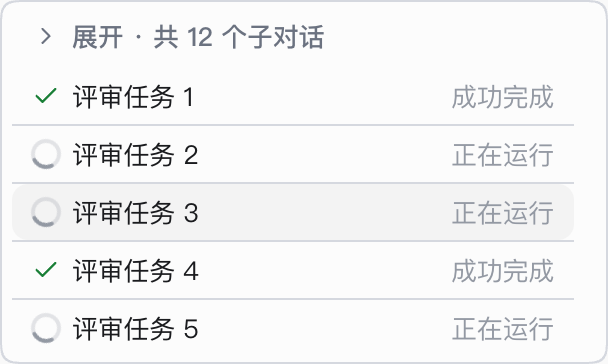
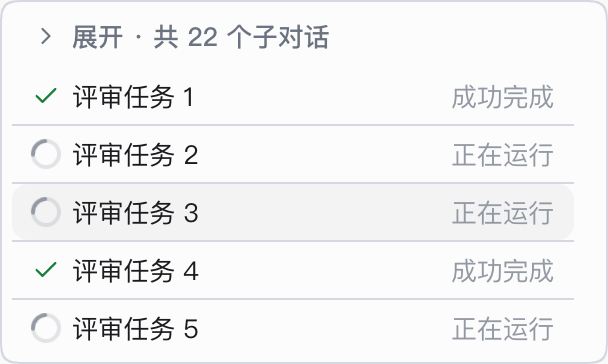
fix: keep expanded child sessions internally scrollable
Model: gpt-6

diff --git a/packages/components/src/components/ai-gui/created-session-list.tsx b/packages/components/src/components/ai-gui/created-session-list.tsx
@@ -54,13 +54,10 @@ export function getCreatedSessionCards(message: SessionHistoryParsed): Card[] | 
 const styles = stylex.create({
   header: { display: 'grid', minWidth: 0 },
   headerLabel: { flexGrow: 1, textAlign: 'start' },
-  list: { display: 'flex', flexDirection: 'column', minWidth: 0, marginTop: '2px' },
+  list: { minWidth: 0, scrollbarGutter: 'stable', overscrollBehaviorY: 'contain' },
   bounded: {
     // Five compact control rows, with four separators.
     maxHeight: `calc(5 * ${control.small} + 4px)`,
-    overflowY: 'auto',
-    scrollbarGutter: 'stable',
-    overscrollBehaviorY: 'contain',
   },
 });
 
@@ -112,11 +109,11 @@ export function CreatedSessionList({
       <div
         id={id}
         {...withClassName(
-          stylex.props(styles.list, overflowing && !expanded && styles.bounded),
+          stylex.props(taskStyles.rows, styles.list, overflowing && !expanded && styles.bounded),
           'scrollbar-pro'
         )}
         data-vaul-no-drag=""
-        tabIndex={overflowing && !expanded ? 0 : undefined}
+        tabIndex={overflowing ? 0 : undefined}
         role="region"
         aria-label={t('sessions.openedBy.childCount', { count: cards.length })}
       >

diff --git a/packages/components/src/stories/SessionRelationCard.stories.tsx b/packages/components/src/stories/SessionRelationCard.stories.tsx
@@ -327,7 +327,7 @@ export const AllCreationStates: Story = {
 export const ManyCreatedSessions: Story = {
   args: operationStoryArgs,
   render: () => {
-    const items: ChatStreamItem[] = Array.from({ length: 12 }, (_, index) => ({
+    const items: ChatStreamItem[] = Array.from({ length: 22 }, (_, index) => ({
       type: 'message',
       sessionId: 'storybook-opener' as SessionId,
       turnIndex: index,

diff --git a/.agents/notes/implemented/feature/2026-10-11-created-session-list.zh.md b/.agents/notes/implemented/feature/2026-10-11-created-session-list.zh.md
@@ -7,7 +7,7 @@ Translation: current
 
 ## 摘要
 
-大量 MCP 创建操作会让导航卡片占满会话。现在连续的纯创建记录共用 Subagent Task 风格的面板，内部为带状态图标的紧凑分隔行，顶部摘要显示总数及展开/收起。可滚动区域默认最多展示五行。批量创建与多次独立创建采用相同展示方式，标题、状态与跳转保持实时可用。遇到其他消息或未加载的轮次时结束分组，保留原有顺序。
+大量 MCP 创建操作会让导航卡片占满会话。现在连续的纯创建记录共用 Subagent Task 风格的面板，内部为带状态图标的紧凑分隔行，顶部摘要显示总数及展开/收起。可滚动区域默认最多展示五行，展开后提高到任务面板的 22rem 高度上限，仍在内部滚动。批量创建与多次独立创建采用相同展示方式，标题、状态与跳转保持实时可用。遇到其他消息或未加载的轮次时结束分组，保留原有顺序。
 
 ## 决策与边界
 
@@ -19,6 +19,6 @@ Translation: current
 
 ## 验证
 
-关系卡片测试覆盖分组、轮次范围、阈值、展开收起与导航，同时保留实时状态和完成去重测试。Storybook 的 `ManyCreatedSessions` 使用十二条合成的独立创建记录，供浏览器验证和截图。Chromium 在 375px 和 1280px 宽度下验证了 144px 区域正好显示五张卡片、内部滚轮滚动和两种展开状态。[收起截图](../../assets/created-session-list/collapsed.png) / [展开截图](../../assets/created-session-list/expanded.png)。消息选择模式保留原始行，确保选中的标识与导出记录对应。原生 iOS WebView 行为仍需真机验证。
+关系卡片测试覆盖分组、轮次范围、阈值、展开收起与导航，同时保留实时状态和完成去重测试。Storybook 的 `ManyCreatedSessions` 使用二十二条合成的独立创建记录，供浏览器验证和截图。Chromium 在 375px 和 1280px 宽度下验证了 144px 区域正好显示五张卡片、内部滚轮滚动和两种展开状态。展开后保持 22rem（352px）高度上限，并能滚动到剩余记录。[收起截图](../../assets/created-session-list/collapsed.png) / [展开截图](../../assets/created-session-list/expanded.png)。消息选择模式保留原始行，确保选中的标识与导出记录对应。原生 iOS WebView 行为仍需真机验证。
 
 24 项针对性测试、组件类型检查、lint、国际化、边界检查、格式化及文档检查均通过。根目录 `pnpm check` 通过类型检查和 lint 后，停在两项未改动的 CLI 测试：工作树检查的 macOS `/var` 与 `/private/var` 路径差异，以及原生 Git 测试的 `context_unreadable`；单独重跑均可复现。

diff --git a/.agents/notes/implemented/feature/2026-10-11-created-session-list.md b/.agents/notes/implemented/feature/2026-10-11-created-session-list.md
@@ -10,7 +10,8 @@ Translation: current
 Many MCP session creations filled the conversation with navigation cards. Consecutive
 pure creation records now share a Subagent Task-style panel with ruled compact rows,
 leading status marks, and a header containing the count and expand/collapse control.
-Its scrollable viewport shows at most five rows by default. Both batch and separate
+Its scrollable viewport shows at most five rows by default; expansion raises the
+cap to the task panel’s 22rem rather than removing the scroll boundary. Both batch and separate
 creation calls use the same presentation; live titles, statuses and navigation remain
 available. Grouping stops at other messages or unhydrated turns, preserving their order.
 
@@ -40,9 +41,10 @@ and preserves the [scroll engine's ownership](../architecture/2026-09-27-convers
 
 The relation-card suite covers grouping, turn range, threshold, disclosure and navigation,
 alongside existing live status and duplicate-completion coverage. Storybook's
-`ManyCreatedSessions` uses twelve synthetic independent creation records for browser
+`ManyCreatedSessions` uses twenty-two synthetic independent creation records for browser
 checks and screenshots. Chromium at 375px and 1280px widths verified a 144px viewport with five
-visible cards, internal wheel scrolling, and both disclosure states.
+visible cards, internal wheel scrolling, and both disclosure states. Expanded lists
+stay capped at 22rem (352px) and scroll to the remaining records.
 [Collapsed](../../assets/created-session-list/collapsed.png) / [expanded](../../assets/created-session-list/expanded.png).
 Message-selection mode preserves original rows so selected ids still match exported records.
 Native iOS WebView behavior requires device verification.

diff --git a/packages/components/src/components/ai-gui/README.md b/packages/components/src/components/ai-gui/README.md
@@ -251,7 +251,8 @@ cards. Older histories without progress rows retain successful-target cards.
 `created-session-list.tsx` uses the Subagent Task panel surface and ruled rows,
 with leading status marks and no repeated “Session created” labels. The header
 reports the total and expands/collapses lists longer than five rows; the default
-viewport holds five compact rows with internal scrolling. Controls use `@lody/ui`.
+viewport holds five compact rows with internal scrolling. Expanded lists retain
+the Subagent Task panel’s 22rem height cap and internal scrollbar. Controls use `@lody/ui`.
 `buildChatVirtualRows` combines consecutive pure creation records (including
 separate MCP calls) under the first record's key; a different message or an
 unhydrated turn ends the group. The row retains its final turn index so visible
